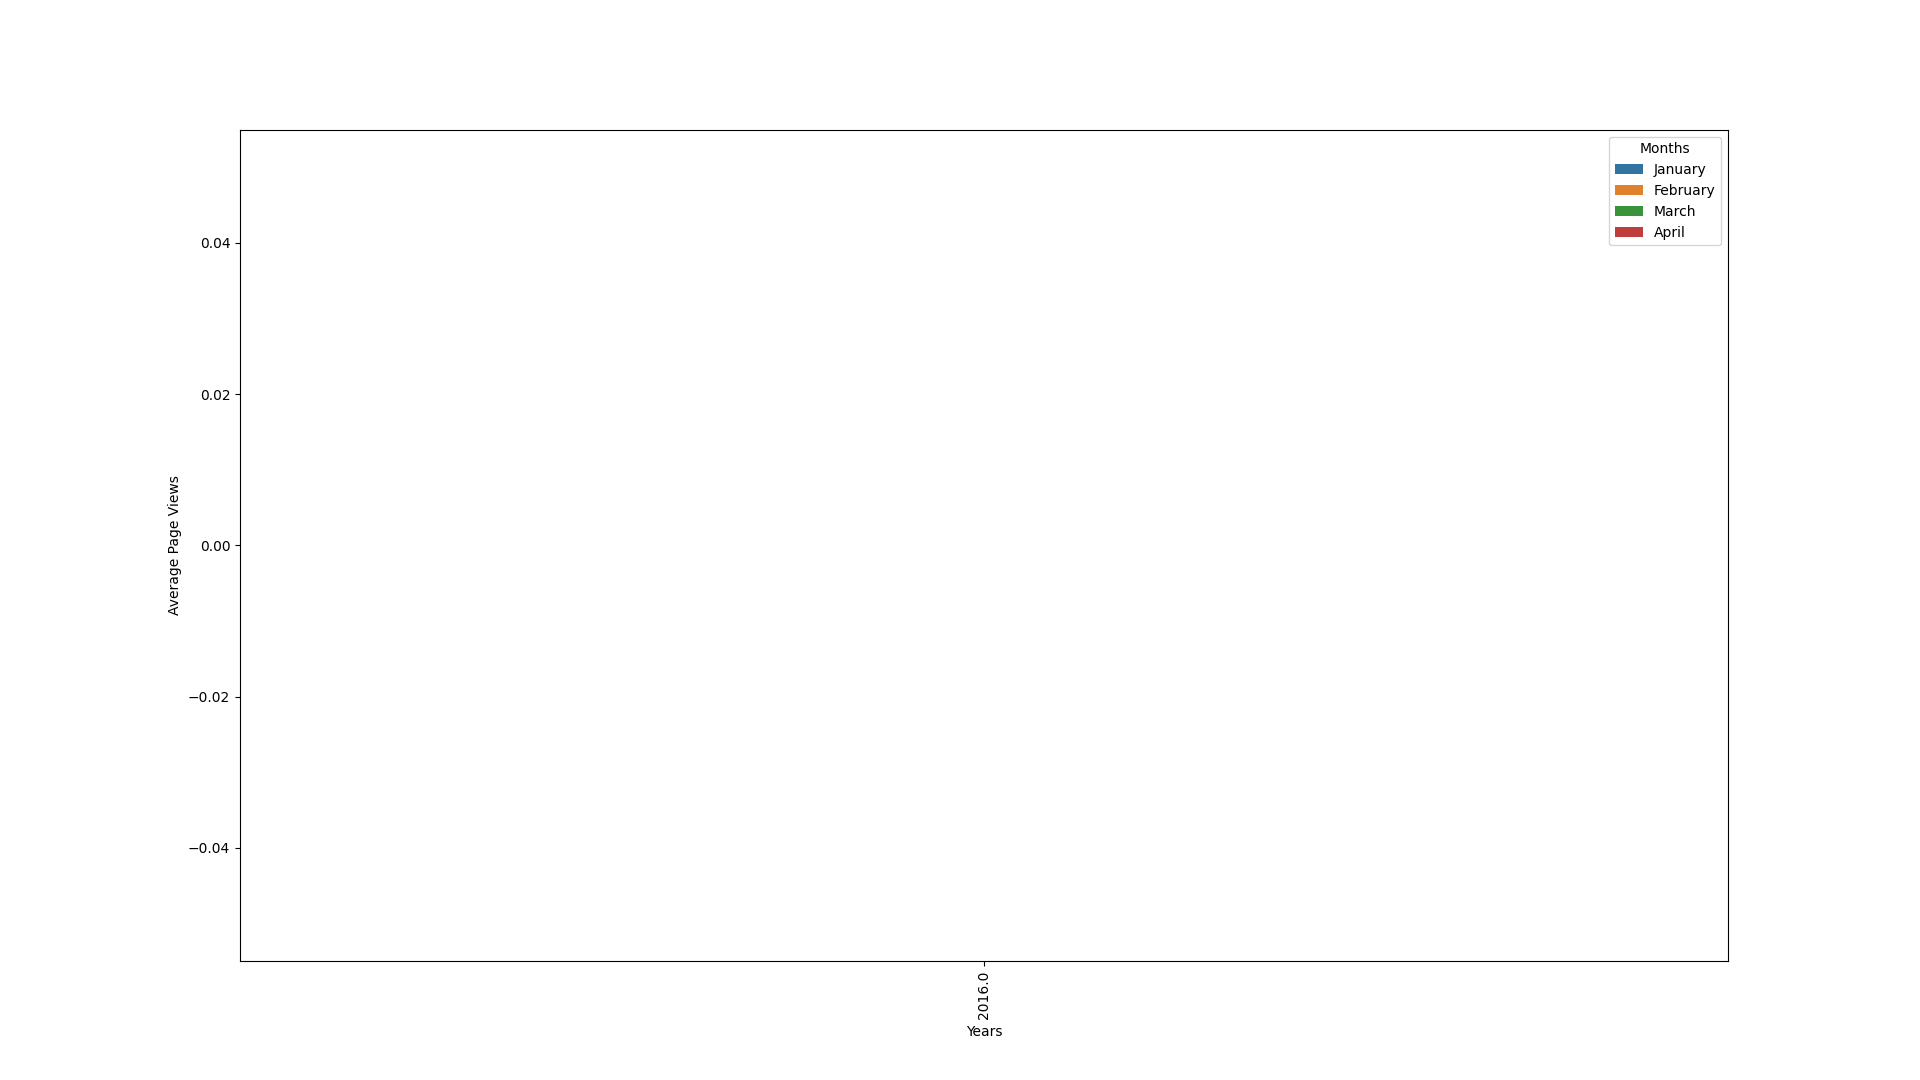
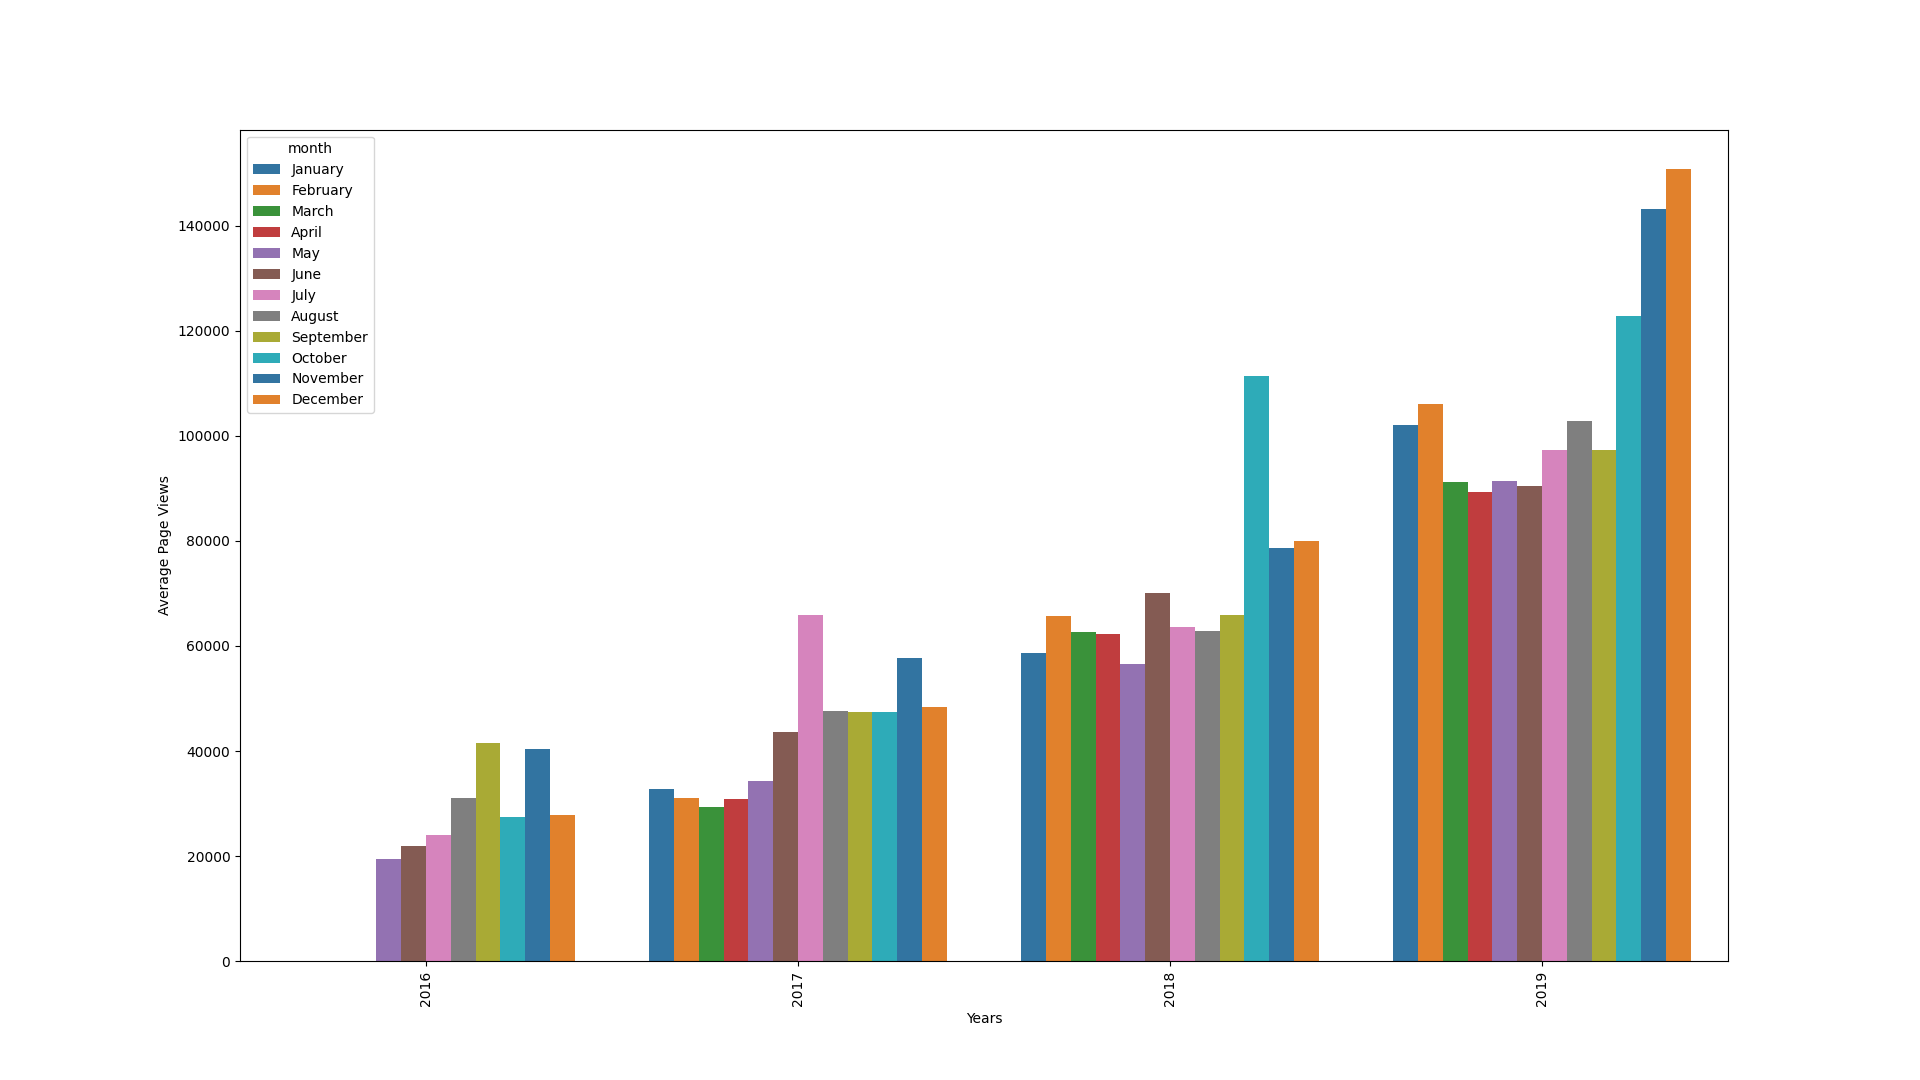
Update

diff --git a/time_series_visualizer.py b/time_series_visualizer.py
@@ -45,20 +45,21 @@ def draw_bar_plot():
     df_bar = pd.DataFrame(df_bar.groupby(["year", "month"], sort=False)["value"].mean().round().astype(int))
     df_bar = df_bar.reset_index()
     missing_data = {
-        "Years": [2016, 2016, 2016, 2016],
-        "Months": ['January', 'February', 'March', 'April'],
-        "Average Page Views": [0, 0, 0, 0]
+        "year": [2016, 2016, 2016, 2016],
+        "month": ['January', 'February', 'March', 'April'],
+        "value": [0, 0, 0, 0]
     }
 
     df_bar = pd.concat([pd.DataFrame(missing_data), df_bar])
     #df_bar = df_bar.pivot_table(index="year", columns="month", values='value',aggfunc="mean")
     print(df_bar.head()) 
     # Draw bar plot
-
+    month_order=['January', 'February', 'March', 'April', 'May', 'June', 'July', 'August', 'September', 'October', 'November', 'December']
     fig, ax= plt.subplots(figsize=(19.2, 10.8), dpi=100)
-    chart = sns.barplot(data=df_bar, x="Years", y="value", hue="Months", palette="tab10")
+    chart = sns.barplot(data=df_bar, x="year", y="value", hue_order=month_order, hue="month", palette="tab10")
     chart.set_xticklabels(chart.get_xticklabels(), rotation=90, horizontalalignment='center')
     ax.set_ylabel("Average Page Views")
+    ax.set_xlabel("Years")
   
         
     
